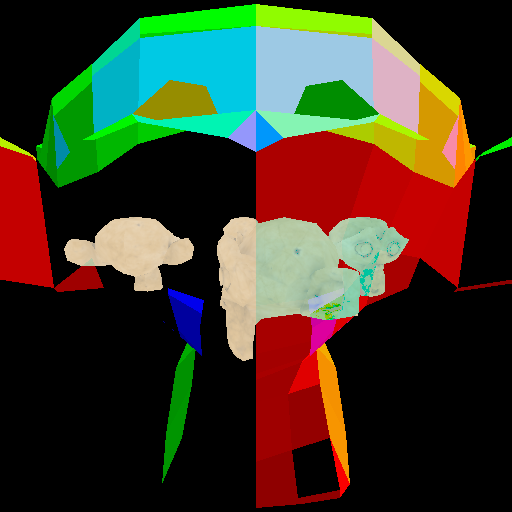
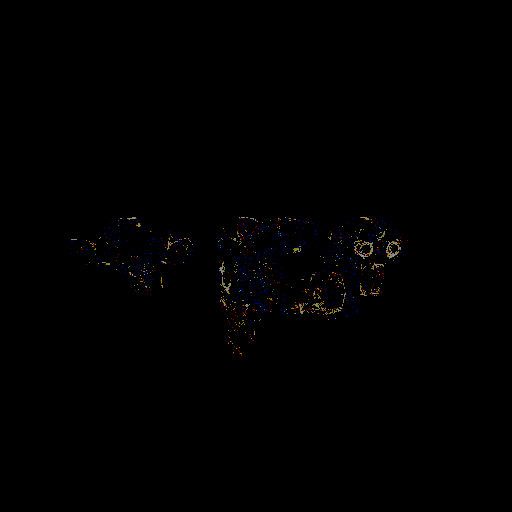
Material Requirement Finished

diff --git a/source/common/material/material.cpp b/source/common/material/material.cpp
@@ -8,6 +8,8 @@ namespace our {
     // This function should setup the pipeline state and set the shader to be used
     void Material::setup() const {
         //TODO: (Req 7) Write this function
+        pipelineState.setup();
+        shader->use();
     }
 
     // This function read the material data from a json object
@@ -25,6 +27,8 @@ namespace our {
     // set the "tint" uniform to the value in the member variable tint 
     void TintedMaterial::setup() const {
         //TODO: (Req 7) Write this function
+        Material::setup();
+        shader->set("tint", tint);
     }
 
     // This function read the material data from a json object
@@ -38,6 +42,12 @@ namespace our {
     // set the "alphaThreshold" uniform to the value in the member variable alphaThreshold
     // Then it should bind the texture and sampler to a texture unit and send the unit number to the uniform variable "tex" 
     void TexturedMaterial::setup() const {
+        TintedMaterial::setup();
+        shader->set("alphaThreshold", alphaThreshold);
+        GLuint textureUnit = 0;
+        texture->bind();
+        sampler->bind(textureUnit);
+        shader->set("tex", textureUnit);
         //TODO: (Req 7) Write this function
     }
 
